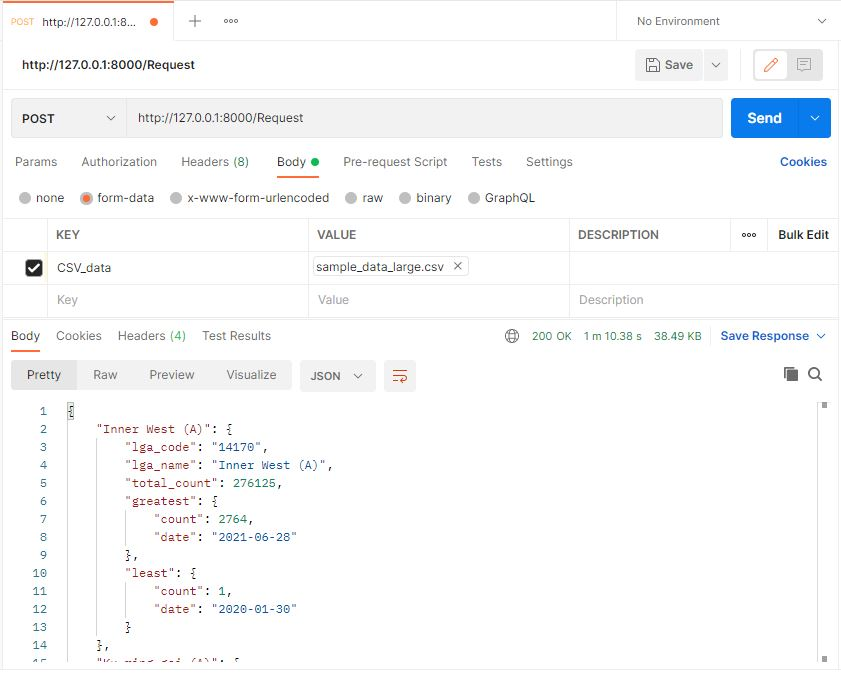
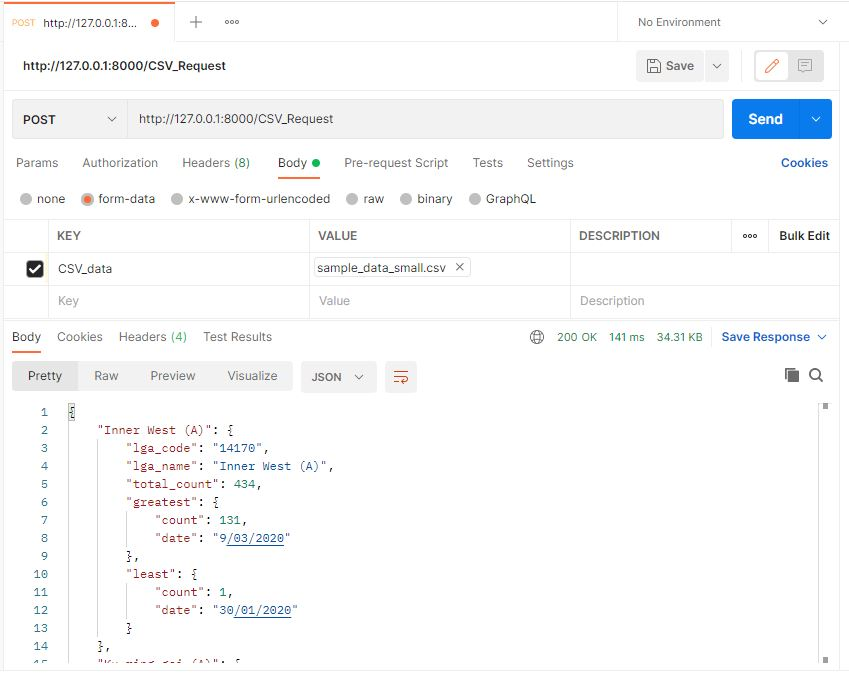
Small Update
Updated Postman Setup Image & Minor Code changes

diff --git a/Tech_Assesment_Submission/Channel_10_Assessment.py b/Tech_Assesment_Submission/Channel_10_Assessment.py
@@ -15,7 +15,7 @@ aggregated_data = {}
 
 
 # Logic behind POST request Handler (Exposes '/Request' Endpoint )
-@flask_instance.route('/Request', methods=['POST'])
+@flask_instance.route('/CSV_Request', methods=['POST'])
 def handle_POST_request():
     if request.method == 'POST':
         try:
@@ -32,41 +32,45 @@ def handle_POST_request():
             return return_JSON_object(aggregated_data)
 
         except Exception as post_request_exception:
-            print('An error occoured processing the request ... Try Again')
+            print('An error occoured Handling the request ... Try Again')
             print(post_request_exception)
-            return 'An error occoured processing the request ... Try Again'
+            return 'An error occoured Handling the request ... Try Again'
 
 
 # Method loops thru and extracts / aggreagtes the clients request data
 def process_client_request(client_request):
-    # Formats/decodes and prepares request data
-    formatted_CSV = csv.DictReader(io.StringIO(client_request.stream.read().decode("UTF8"), newline=None))
+    try:
+        # Formats/decodes and prepares request data
+        formatted_CSV = csv.DictReader(io.StringIO(client_request.stream.read().decode("UTF8"), newline=None))
 
-    # loops thru formatted CSV data & extracts/aggregates the desired data
-    for entry in formatted_CSV:
-        if entry['lga_name19'] != "":
-            lga_name = entry['lga_name19']
-            test_date = entry['test_date']
+        # loops thru formatted CSV data & extracts/aggregates the desired data
+        for entry in formatted_CSV:
+            if entry['lga_name19'] != "":
+                lga_name = entry['lga_name19']
+                test_date = entry['test_date']
 
-            if lga_name in aggregated_data.keys():
-                aggregated_data[lga_name]['total_count'] += 1
+                if lga_name in aggregated_data.keys():
+                    aggregated_data[lga_name]['total_count'] += 1
 
-                if test_date in aggregated_data[lga_name]['test_date_count'].keys():
-                    aggregated_data[lga_name]['test_date_count'][test_date] += 1
+                    if test_date in aggregated_data[lga_name]['test_date_count'].keys():
+                        aggregated_data[lga_name]['test_date_count'][test_date] += 1
+                    else:
+                        aggregated_data[lga_name]['test_date_count'][test_date] = 1
                 else:
-                    aggregated_data[lga_name]['test_date_count'][test_date] = 1
-            else:
-                aggregated_data[lga_name] = {}
-                aggregated_data[lga_name]['lga_code'] = entry['lga_code19']
-                aggregated_data[lga_name]['lga_name'] = lga_name
-                aggregated_data[lga_name]['total_count'] = 1
-                aggregated_data[lga_name]['greatest'] = {}
-                aggregated_data[lga_name]['least'] = {}
-                aggregated_data[lga_name]['test_date_count'] = {test_date: 1}
+                    aggregated_data[lga_name] = {}
+                    aggregated_data[lga_name]['lga_code'] = entry['lga_code19']
+                    aggregated_data[lga_name]['lga_name'] = lga_name
+                    aggregated_data[lga_name]['total_count'] = 1
+                    aggregated_data[lga_name]['greatest'] = {}
+                    aggregated_data[lga_name]['least'] = {}
+                    aggregated_data[lga_name]['test_date_count'] = {test_date: 1}
 
-    # calls function to find greatest / least dates & update aggregated_data
-    aggregate_dates(aggregated_data)
+        # calls function to find greatest / least dates & update aggregated_data
+        aggregate_dates(aggregated_data)
 
+    except Exception as process_request_exception:
+        print(process_request_exception)
+        return print('An error occoured Handling the request ... Try Again')
 
 # Handles the logic behind finsing the greatest/least test dates
 def aggregate_dates(request_data):
@@ -85,13 +89,18 @@ def aggregate_dates(request_data):
 
         aggregated_data[lga_name_key]['greatest'] = greatest_template
         aggregated_data[lga_name_key]['least'] = least_template
-        aggregated_data[lga_name_key].pop('test_date_count')
+        aggregated_data[lga_name_key].pop('test_date_count')     
 
 
 # converts data into a JSON object
 def return_JSON_object(req_data):
-    json_object = json.dumps(req_data, indent = 4)
-    return json_object
+    try:
+        json_object = json.dumps(req_data, indent = 4)
+        return json_object
+    except Exception as return_JSON_exception:
+        print(return_JSON_exception)
+        print('There was an error Returning the JSON object ... Try Again')
+        return 'There was an error Returning the JSON object ... Try Again'
 
 
 # Main application Start
